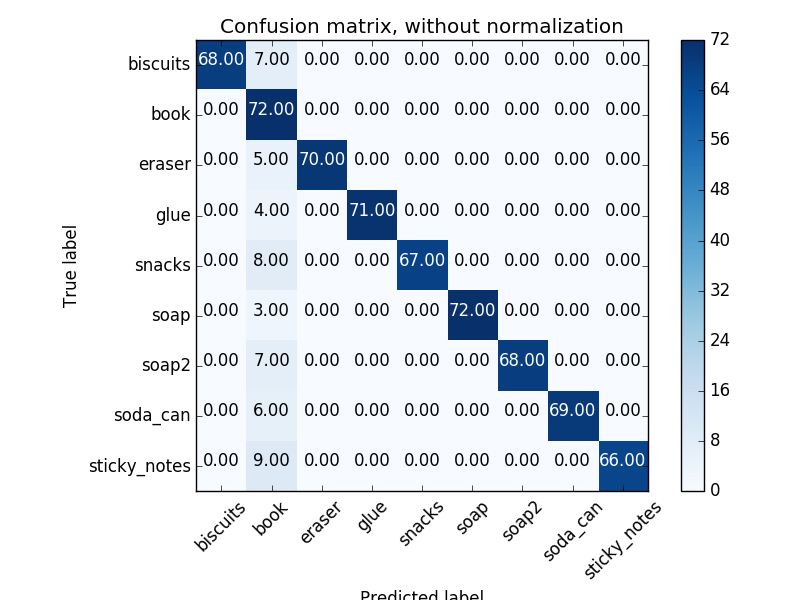
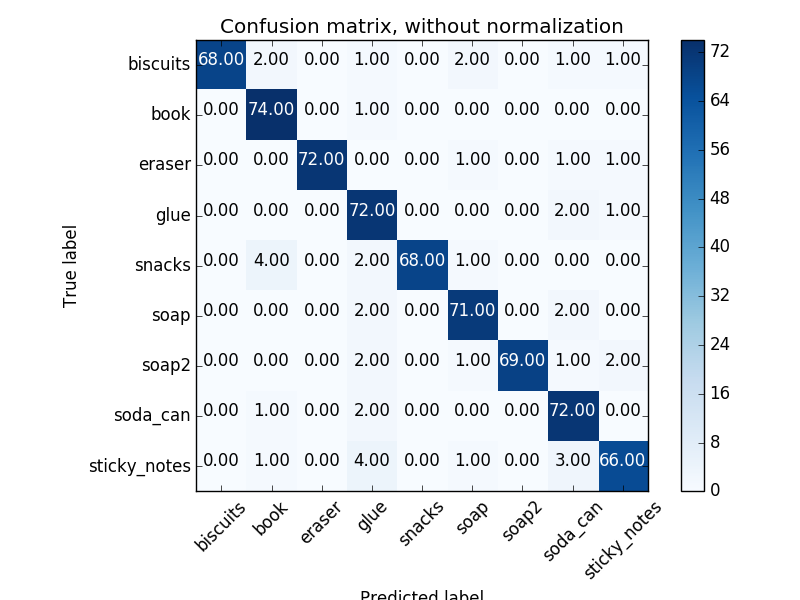
Fix bug in feature.py and enhance the writeup

diff --git a/writeup.md b/writeup.md
@@ -7,33 +7,60 @@ The object recognition [file][project] is split into 3 parts:
 
 * the algorithms of the perception exercise 2
 * the algorithms of the perception exercise 3
-* storing the results in a yml file
+* testing the algorithm on different scenarios
 
 ### Exercise 2 Part
 
-This step includes the following filter steps:
+This part represents various filter algorithms to prepare the cloud point data for the object recognition. 
+All filters except the statistical outlier filter have been applied in an exercise before but have been tweaked for this application. 
+In the following subsections i will go through every filter to explain its application:
 
-* statistical outlier filter
-* voxel downsampling
-* Passthrough filter (y and z axis)
-* RANSAC filter
-* euclidean clustering
+Comment: The filters were applied according to the explanation order.
 
-To find the best values for every filter step i used the world 3 example and added the filters step by step to observe the result and tweak accordingly.
+#### Statistical Outlier filter 
+
+Is used to filter out random noise. For this it analyses a set number of neighbouring points and their distance to the chosen point. 
+If the average distance exceeds a certain threshold, that point will be filtered out.
+
+#### Voxel Downsampling
+
+This filter is used due to performance reasons. The provided point cloud data is too extensive to use in a feasible time. Therefore we downsample the data.
+
+#### Passthrough filter
+
+If we know the location of the desired objects we can mask the view of vision to exclude all unnecessary information. 
+We used the z-axis filtering to remove the table parts except where the objects are placed on. 
+Furthermore we utilized a y-axis filter to remove the outmost left and right part of the table which were empty.
+
+#### RANSAC
+
+The RANSAC filter is able to filter / extract specific geometries. In this case the filter is set on the table based on the PLANE geometry. 
+In this way it was possible the separate the table from the objects into the point clouds.
 
 The following images show the ransac results:
 ![alt][RANSAC_table]
 ![alt][RANSAC_objects]
 
-as well as the result after the clustering step:
+#### Euclidean clustering 
+
+With euclidean clustering we can assign points in a point cloud to labels based on their distance to each other. 
+By defining minimum and maximum values it will find independently a certain number of clusters.
+
+With this algorithm with can split the cloud points into objects to give them independently into the object recognition algorithm.
 
 ![alt][clustering]
 
+
+To find the best values for every filter step i used the world 3 example and added the filters step by step to observe the result and tweak accordingly.
+
 ### Exercise 3 Part
+
+Exercise 3 introduced the object recognition algorithm - a [support vector machine](https://de.wikipedia.org/wiki/Support_Vector_Machine). It is used to separate objects based on features. 
+It has to be trained with pre recorded samples and assigned labels.
 
 The values used in this part have been tweaked in the same way as in exercise 2, mostly through playing around (trial and error).
 
-To recognize the objects i had to fulfill the following steps:
+To recognize the objects it had to fulfill the following steps:
 
 1. record enough trainings data
 2. train a svm to separate the data points
@@ -45,15 +72,63 @@ Then i trained the SVM via [train_svm.py][train], but with a rbf kernel to separ
 ![alt][confusion]
 ![alt][confusion_norm]
 
-The average accuracy is around 93% which was enough to fulfill the requirements of this project.
+The average accuracy is around 94% which was enough to fulfill the requirements of this project.
 
-### Storing in yaml files
+![alt][accuracy]
 
-With this setup we ran all three worls which resulted in the following yaml files:
+### Run the test worlds
 
-* World 1: [Output 1][output_1]
-* World 2: [Output 2][output_2]
-* World 3: [Output 3][output_3]  
+To complete the project the pipeline had to classify 100% of the objects in world 1, 80% of world 2 and 75% of world 3. 
+
+#### World 1
+
+Output: [Output 1][output_1]
+
+Accuracy: 100%
+
+The following visual output was generated in world 1:
+
+![alt][test_1_recognition]
+
+#### World 2
+
+Output: [Output 2][output_2]
+
+Accuracy: 100%
+
+The following visual output was generated in world 2:
+
+![alt][test_2_recognition]
+
+#### World 3
+
+Output: [Output 3][output_3]
+
+Accuracy: 88% (7 out of 8)
+
+The following visual output was generated in world 3:
+
+![alt][test_3_recognition]
+
+## Project discussion
+
+### What worked
+
+The implementation of the object recognition was straight forward thanks to the exercises we had to complete before starting the project. 
+With adding the filters step by step and tweaking the values accordingly i didn't encounter any major issue. 
+I'm only a bit constraint on the time i can use on that project so that i fall back to the minimum requirements.
+
+### Future Work
+
+There is definitely a bit room of improvement for the object recognition itself - the svm. We could experiment with more object positions, a richer feature set as well as with data augmentation (translated, resized, color-customized).
+
+The second area would be to improve the noise filtering and the clustering to get the last object on the world 3 table which is partly hidden by the book. My current implementation has its difficulties to see that object.
+
+
+
+
+
+
 
 [//]: # (File References)
 
@@ -70,6 +145,7 @@ With this setup we ran all three worls which resulted in the following yaml file
 
 [confusion]: ./images/confusion.png
 [confusion_norm]: ./images/confusion_norm.png
+[accuracy]: ./images/accuracy.png
 [RANSAC_table]: ./images/RANSAC_table.png
 [RANSAC_objects]: ./images/RANSAC_objects.png
 [clustering]: ./images/clustering.png
